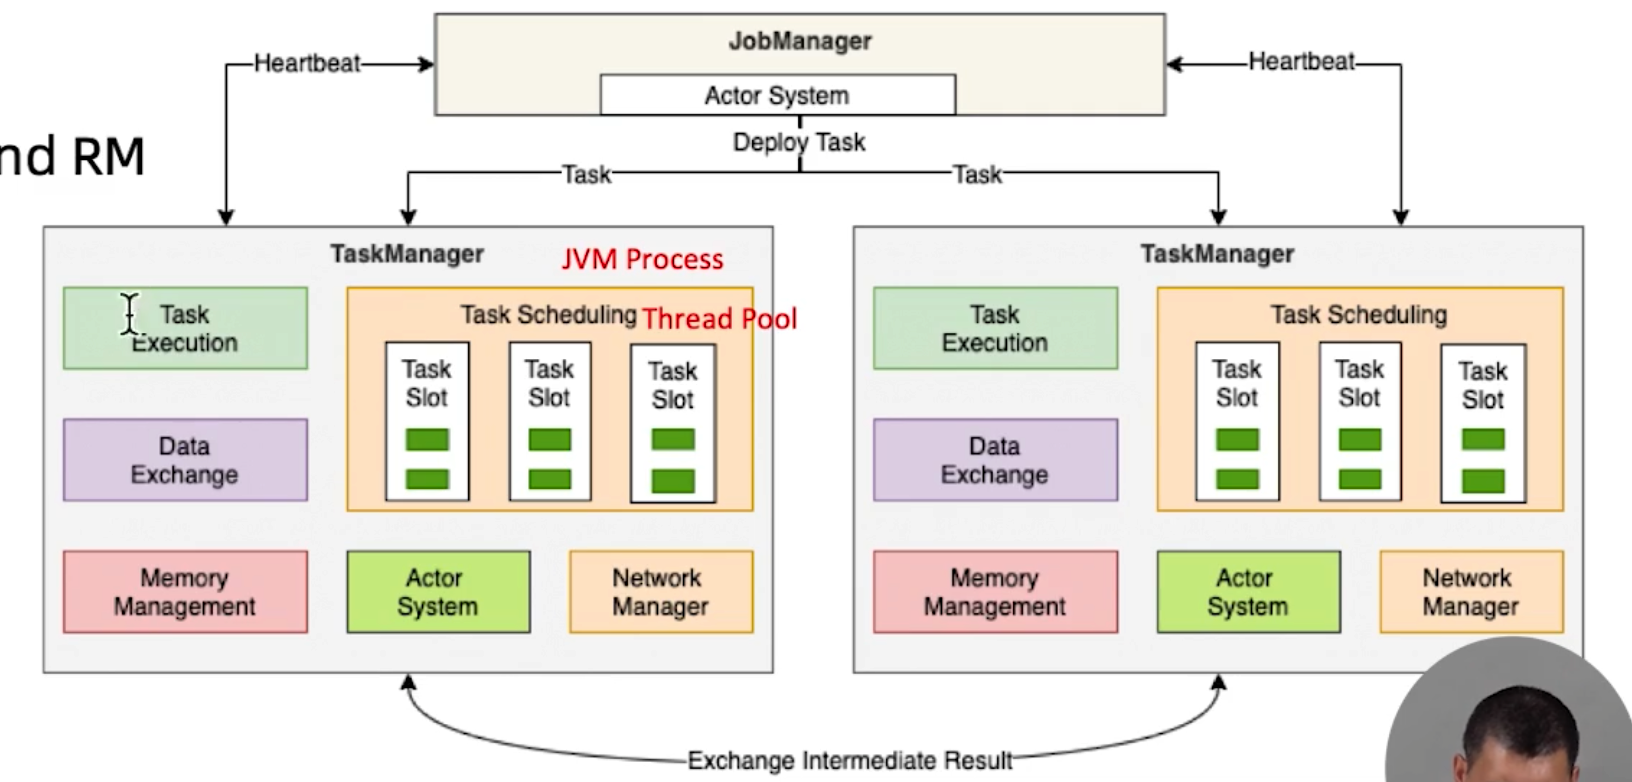
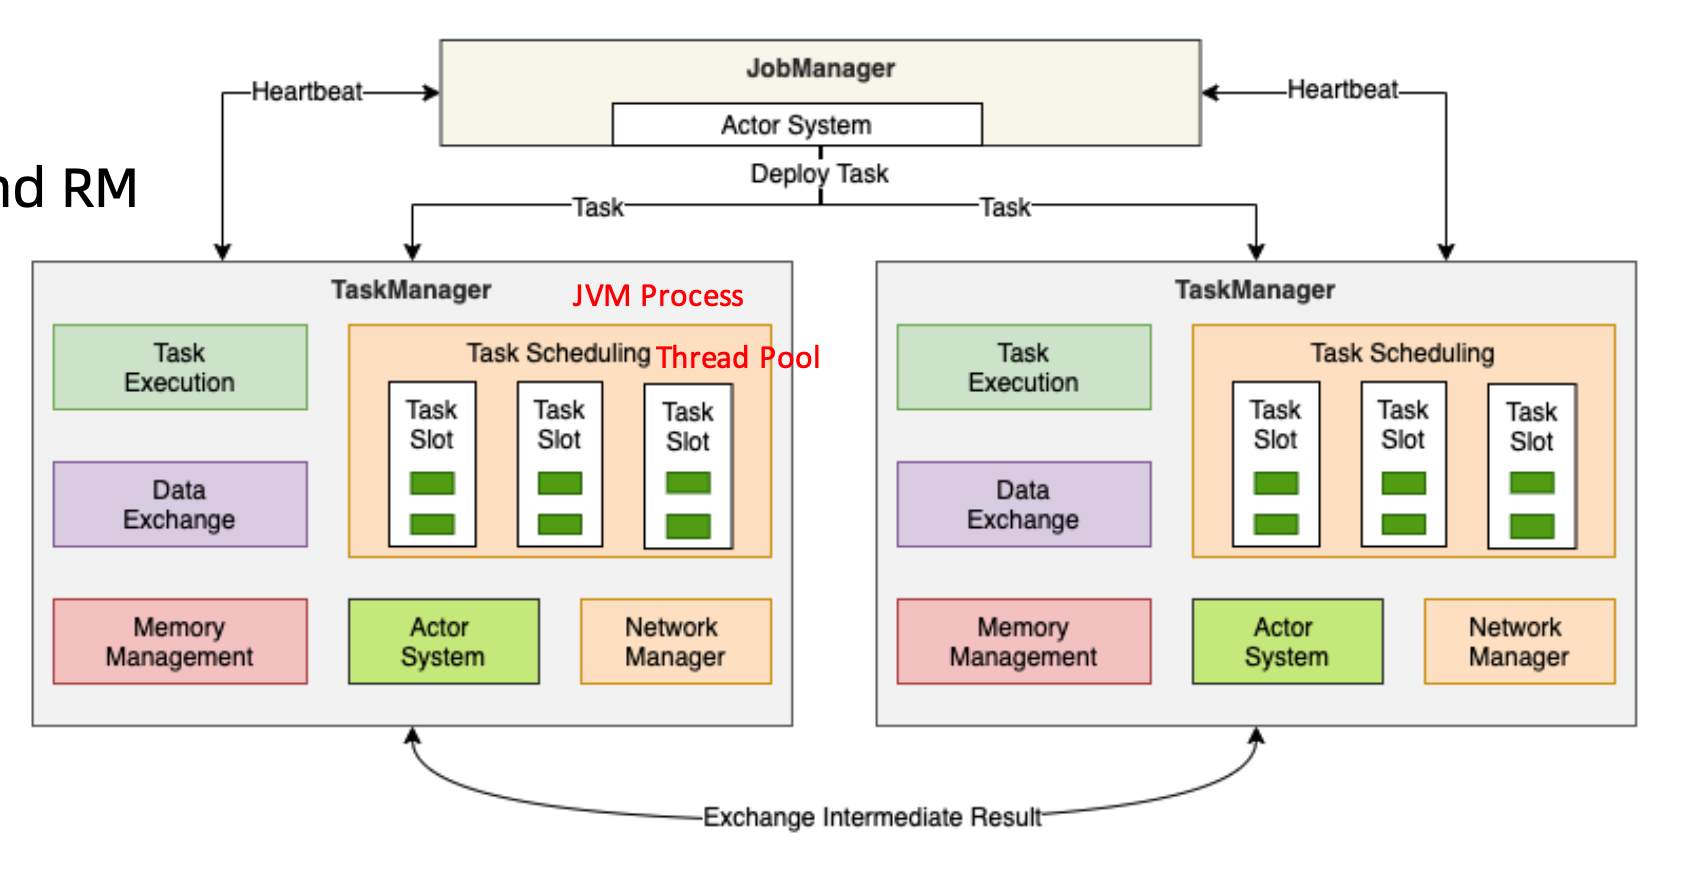
flink: datastream api.

diff --git a/tech/Flink.md b/tech/Flink.md
@@ -2,7 +2,7 @@
 
 # | 流式计算
 
-大数据计算模式
+## || 大数据计算模式
 
 - **批量计算 Batch Computing**
   - MapReduce
@@ -43,6 +43,19 @@
 
 
 
+## || 分布式流处理模型
+
+Google 论文：https://research.google/pubs/pub43864/ 
+
+![image-20220116233209988](../img/flink/stream-dataflow.png)
+
+- 数据从上一个 Operation 节点直接 push 到下一个 Operation 节点；
+- 各节点可以分布在不同的 task 线程中运行；
+
+
+
+
+
 # | Flink 架构
 
 ## || 核心特性
@@ -72,7 +85,11 @@
 - **Client**
   - 本地执行 main，解析 JobGraph 对象、提交到 JobManager 运行
 
-![image-20220114233809148](../img/flink/flink-components.png)
+![image-20220116233910154](../img/flink/flink-components.png)
+
+
+
+
 
 
 
@@ -85,7 +102,7 @@
 - 集群资源管理（Resource Manager）
 - TaskManager 注册与管理
 
-![image-20220114234355688](../img/flink/flink-components-jobmanager.png)
+![image-20220116234001575](../img/flink/flink-components-jobmanager.png)
 
 
 
@@ -115,9 +132,7 @@
 
 - Offer Slots to JobManager
 
-
-
-![image-20220114234900267](../img/flink/flink-components-taskmanager.png)
+![image-20220116234053630](../img/flink/flink-components-taskmanager.png)
 
 
 
@@ -157,15 +172,56 @@ StreamGraph --> JobGraph
 
 
 
+## || 集群部署模式
 
 
 
+**Session Mode**
+
+- 定义	
+  - 共享 JobManager 和 TaskManager；
+  - 所有提交的 Job 都在一个 Runtime 中运行；
+  - JobManager 生命周期不受 Job 影响，会长期运行；
+- 优点
+  - 资源充分共享、提高资源利用率
+  - Job 在 Flink Session 集群中管理，运维简单；
+- 缺点
+  - 资源隔离相对较差；
+  - 非 Native 类型部署：TM 不易扩展，Slot 计算资源伸缩性较差；
+
+![image-20220116160637955](../img/flink/flink-deploy-session.png)
 
 
 
+**Per-Job Mode**
+
+- 定义
+  - 单个 Job 独占 JobManager 和 TaskManager；
+  - 每个 Job 单独启动一个 Runtime；TM 中的 slot 资源根据 Job 指定；
+  - JobManager 生命周期与 Job 生命周期绑定；
+- 优点
+  - Job 直接资源隔离充分；
+  - 资源根据 Job 需要进行申请，TM Slot 数量可以不同；
+- 缺点
+  - 资源相对浪费，JobManager 需要消耗资源；
+  - Job 管理完全交给 ClusterManagement，管理复杂；
+
+![image-20220116161706250](../img/flink/flink-deploy-perjob.png)
 
 
 
+**Application Mode**
+
+- 定义
+  - Application的 main() 运行在 Cluster 上，而不是客户端；客户端无需上传dependency，释放客户端压力。
+  - 每个 Application 对应一个 Runtime，Application 中可以包含多个 Job；
+- 优点
+  - 降低带宽消耗和客户端负载；
+  - Application 之间资源隔离；Application 中实现资源共享；
+- 缺点
+  - 仅支持 Yarn / K8S；
+
+![image-20220116162916232](../img/flink/flink-deploy-application.png)
 
 
 
@@ -239,16 +295,6 @@ CREATE TABLE FileSource (
 
 
 
-## || Watermark
-
-https://nightlies.apache.org/flink/flink-docs-release-1.9/dev/event_time.html#event-time-and-watermarks 
-
-In order to handle out-of-order events and distinguish between on-time and late events in streaming, we need to extract timestamps from events and make some kind of progress in time (so-called watermarks).
-
-When we receive a watermark, we think the event before the watermark should all be processed.
-
-
-
 
 
 ## || Time Window
@@ -266,9 +312,7 @@ https://nightlies.apache.org/flink/flink-docs-release-1.11/dev/table/sql/queries
 - Sliding Time Window
 - Tumbling Time Window
 
-
-
-![image-20220114231037460](../img/flink/time-window.png)
+![image-20220116233806080](../img/flink/time-window.png)
 
 
 
@@ -303,9 +347,183 @@ INSERT INTO ConsoleSink
         userId, TUMBLE(wk, INTERVAL '5' SECOND)
 ```
 
+# | DataStream API
+
+## || 操作
+
+StreamExecutionEnvironment 功能
+
+- TimeCharacteristic 管理
+- Transformation 存储与管理
+- StreamGraph 创建和获取
+- CacheFile 注册于管理
+- 任务提交与运行
+- 重启策略管理
+- StateBackend 管理
+- Checkpoint 管理
+- 序列化器管理
+- 类型和序列化注册
+- DataStream 数据源创建
+  - 基本数据源接口 - 集合、Socket、File
+  - 数据源连接器 - Kafka, ES
+  - Custom DataSource
 
 
-# | Table Operation
+
+DataStream 转换操作
+
+- 基于单条记录：
+  - `filter`, `map`, `flatmap`
+- 基于窗口：
+  - NonKeyed: `timeWindowAll`, `countWindowAll`, `windowAll`
+  - Keyed: `timeWindow`, `countWindow`,  `window`
+- 合并多条流：
+  - NonKeyed: `union`, `join`, `connect`
+  - Keyed: `Interval join`
+- 拆分单条流：`split`
+
+![image-20220116233344476](../img/flink/flink-datastream-operators.png)
+
+Sample: 
+
+```java
+public class WindowWordCount {
+
+    public static void main(String[] args) throws Exception {
+        // 1. 设置运行环境
+        StreamExecutionEnvironment env = StreamExecutionEnvironment.getExecutionEnvironment();
+        // 2. 读取源数据、执行转换操作
+        DataStream<Tuple2<String, Integer>> dataStream = env
+                .socketTextStream("localhost", 9999)
+                .flatMap(new Splitter())
+                .keyBy(value -> value.f0)
+                .window(TumblingProcessingTimeWindows.of(Time.seconds(5)))
+                .sum(1);
+        // 3. 默认 sink 操作
+        dataStream.print();
+        // 4. 执行 Flink 应用程序
+        env.execute("Window WordCount");
+    }
+
+    public static class Splitter implements FlatMapFunction<String, Tuple2<String, Integer>> {
+        @Override
+        public void flatMap(String sentence, Collector<Tuple2<String, Integer>> out) throws Exception {
+            for (String word: sentence.split(" ")) {
+                out.collect(new Tuple2<String, Integer>(word, 1));
+            }
+        }
+    }
+
+}
+```
+
+
+
+## || 时间
+
+时间设置：
+
+```java
+StreamExecutionEnvironment env = StreamExecutionEnvironment.getExecutionEnvironment();
+env.setStreamTimeCharacteristic(TimeCharacteristic.EventTime);
+```
+
+![image-20220116233422906](../img/flink/flink-time.png)
+
+**Event Time**
+
+- 事件发生的时间
+- 可以处理乱序数据
+
+**Storage Time**
+
+- 
+
+**Ingestion Time**
+
+- 
+
+**Processing Time**
+
+- 处理时的机器本地时间
+- 处理过程最小延迟
+
+
+
+## || Watermark
+
+> https://nightlies.apache.org/flink/flink-docs-release-1.9/dev/event_time.html#event-time-and-watermarks 
+>
+> In order to handle out-of-order events and distinguish between on-time and late events in streaming, we need to extract timestamps from events and make some kind of progress in time (so-called watermarks).
+>
+> When we receive a watermark, we think the event before the watermark should all be processed.
+
+
+
+概念
+
+- Watermark 用于标记 Event-Time 的前进过程；
+- Watermark 跟随 DataStream Event-Time 变动，并自身携带 TimeStamp；
+- Watermark 用于表明所有较早的时间已经（可能）达到；
+- Watermark 本身也属于特殊的事件；
+
+
+
+更新时机
+
+- 每当有新的最大时间戳事件出现时，则产生新的 Watermark；
+
+迟到事件
+
+- “迟到事件”：比当前 Watermark 更小的时间戳 会被忽略、不会触发统计操作。
+
+
+
+并行中的 Watermark 
+
+- Source Operator 产生 watermark，下发给下游 Operator
+- 每个 Operator 根据 watermark 对 “自己的时钟” 进行更新、并将 watermark 发送给下游算子
+
+
+
+![image-20220116233510102](../img/flink/flink-watermark-flow.png)
+
+**Watermark & Window**
+
+- Watermark = Max EventTime - Late Threashold；
+- Late Threashold 越高，数据处理延时越高；
+- 启发式更新；
+- 解决一定范围内的乱序事件；
+- 窗口触发条件：`Current Watermark > Window EndTime`
+- Watermark 的主要目的是告诉窗口不再会有比当前 Watermark 更晚的数据达到。
+
+
+
+![image-20220116234955591](../img/flink/flink-watermark-window.png)
+
+
+
+**Watermark 生成**
+
+
+
+
+
+
+
+
+
+
+
+
+
+
+
+·
+
+
+
+# | Table API
 
 ## || Join
 
@@ -364,6 +582,19 @@ INSERT INTO
 ```
 
 
+
+### 基于时间的查询
+
+条件
+
+- 必须是 append-only
+- 查询条件中包含时间关联条件和算子
+  - GROUP BY window aggregation
+  - OVER window aggregation
+  - Time-windowed JOIN
+  - JOIN with a teamporal table (enrichment join)
+  - Pattern matching (MATCH_RECOGNIZE)
+- 查询结果也是 append-only 类型
 
 
 
